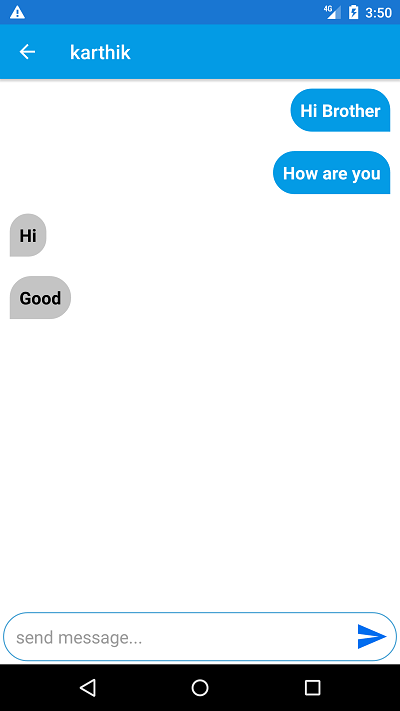
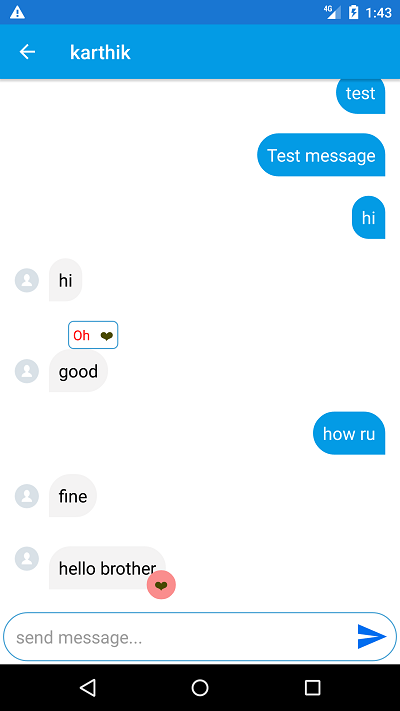
-updated UI for chat

diff --git a/app/src/main/java/com/tamada/chatdemo/adapters/MessagesAdapter.java b/app/src/main/java/com/tamada/chatdemo/adapters/MessagesAdapter.java
@@ -56,7 +56,7 @@ public class MessagesAdapter extends RecyclerView.Adapter<RecyclerView.ViewHolde
     public class ReceiverViewHolder extends RecyclerView.ViewHolder {
         public final TextView lblName;
         public final TextView idReply;
-        public final TextView idReplyOne;
+        public final TextView idReplyOne, idReplyTwo;
         public final LinearLayout replyContainer;
 
         public ReceiverViewHolder(View view) {
@@ -64,6 +64,7 @@ public class MessagesAdapter extends RecyclerView.Adapter<RecyclerView.ViewHolde
             lblName = (TextView) view.findViewById(R.id.idMessage);
             idReply = (TextView) view.findViewById(R.id.idReply);
             idReplyOne = (TextView) view.findViewById(R.id.idReplyOne);
+            idReplyTwo = (TextView) view.findViewById(R.id.idReplyTwo);
             replyContainer = (LinearLayout) view.findViewById(R.id.idReplyContainer);
         }
     }
@@ -128,13 +129,11 @@ public class MessagesAdapter extends RecyclerView.Adapter<RecyclerView.ViewHolde
             viewHolder.lblName.setOnLongClickListener(new View.OnLongClickListener() {
                 @Override
                 public boolean onLongClick(View v) {
-                    /*ObjectAnimator textViewAnimator = (ObjectAnimator) AnimatorInflater.loadAnimator(context, R.animator.object_animator_ex);
-                    textViewAnimator.setTarget( viewHolder.replyContainer);
-                    textViewAnimator.start();
-*/
-                    Animation slideUp = AnimationUtils.loadAnimation(context, R.anim.slide_up);
-                    viewHolder.replyContainer.setVisibility(View.VISIBLE);
-                    viewHolder.replyContainer.startAnimation(slideUp);
+                    if (TextUtils.isEmpty(messagesModel.getMessageReply())) {
+                        Animation slideUp = AnimationUtils.loadAnimation(context, R.anim.slide_up);
+                        viewHolder.replyContainer.setVisibility(View.VISIBLE);
+                        viewHolder.replyContainer.startAnimation(slideUp);
+                    }
                     return true;
                 }
             });
@@ -150,13 +149,32 @@ public class MessagesAdapter extends RecyclerView.Adapter<RecyclerView.ViewHolde
             viewHolder.idReplyOne.setOnClickListener(new View.OnClickListener() {
                 @Override
                 public void onClick(View v) {
-
                     databaseReference.child("1111").child(messagesModel.getId()).addListenerForSingleValueEvent(new ValueEventListener() {
                         @Override
                         public void onDataChange(@NonNull DataSnapshot dataSnapshot) {
                             dataSnapshot.getRef().child("messageReply").setValue(viewHolder.idReplyOne.getText().toString());
                             viewHolder.replyContainer.setVisibility(View.GONE);
                             messagesModel.setMessage(viewHolder.idReplyOne.getText().toString());
+                            notifyItemChanged(position);
+                        }
+
+                        @Override
+                        public void onCancelled(@NonNull DatabaseError databaseError) {
+                            Log.d("User", databaseError.getMessage());
+                        }
+                    });
+                }
+            });
+
+            viewHolder.idReplyTwo.setOnClickListener(new View.OnClickListener() {
+                @Override
+                public void onClick(View v) {
+                    databaseReference.child("1111").child(messagesModel.getId()).addListenerForSingleValueEvent(new ValueEventListener() {
+                        @Override
+                        public void onDataChange(@NonNull DataSnapshot dataSnapshot) {
+                            dataSnapshot.getRef().child("messageReply").setValue(viewHolder.idReplyTwo.getText().toString());
+                            viewHolder.replyContainer.setVisibility(View.GONE);
+                            messagesModel.setMessage(viewHolder.idReplyTwo.getText().toString());
                             notifyItemChanged(position);
                         }
 
